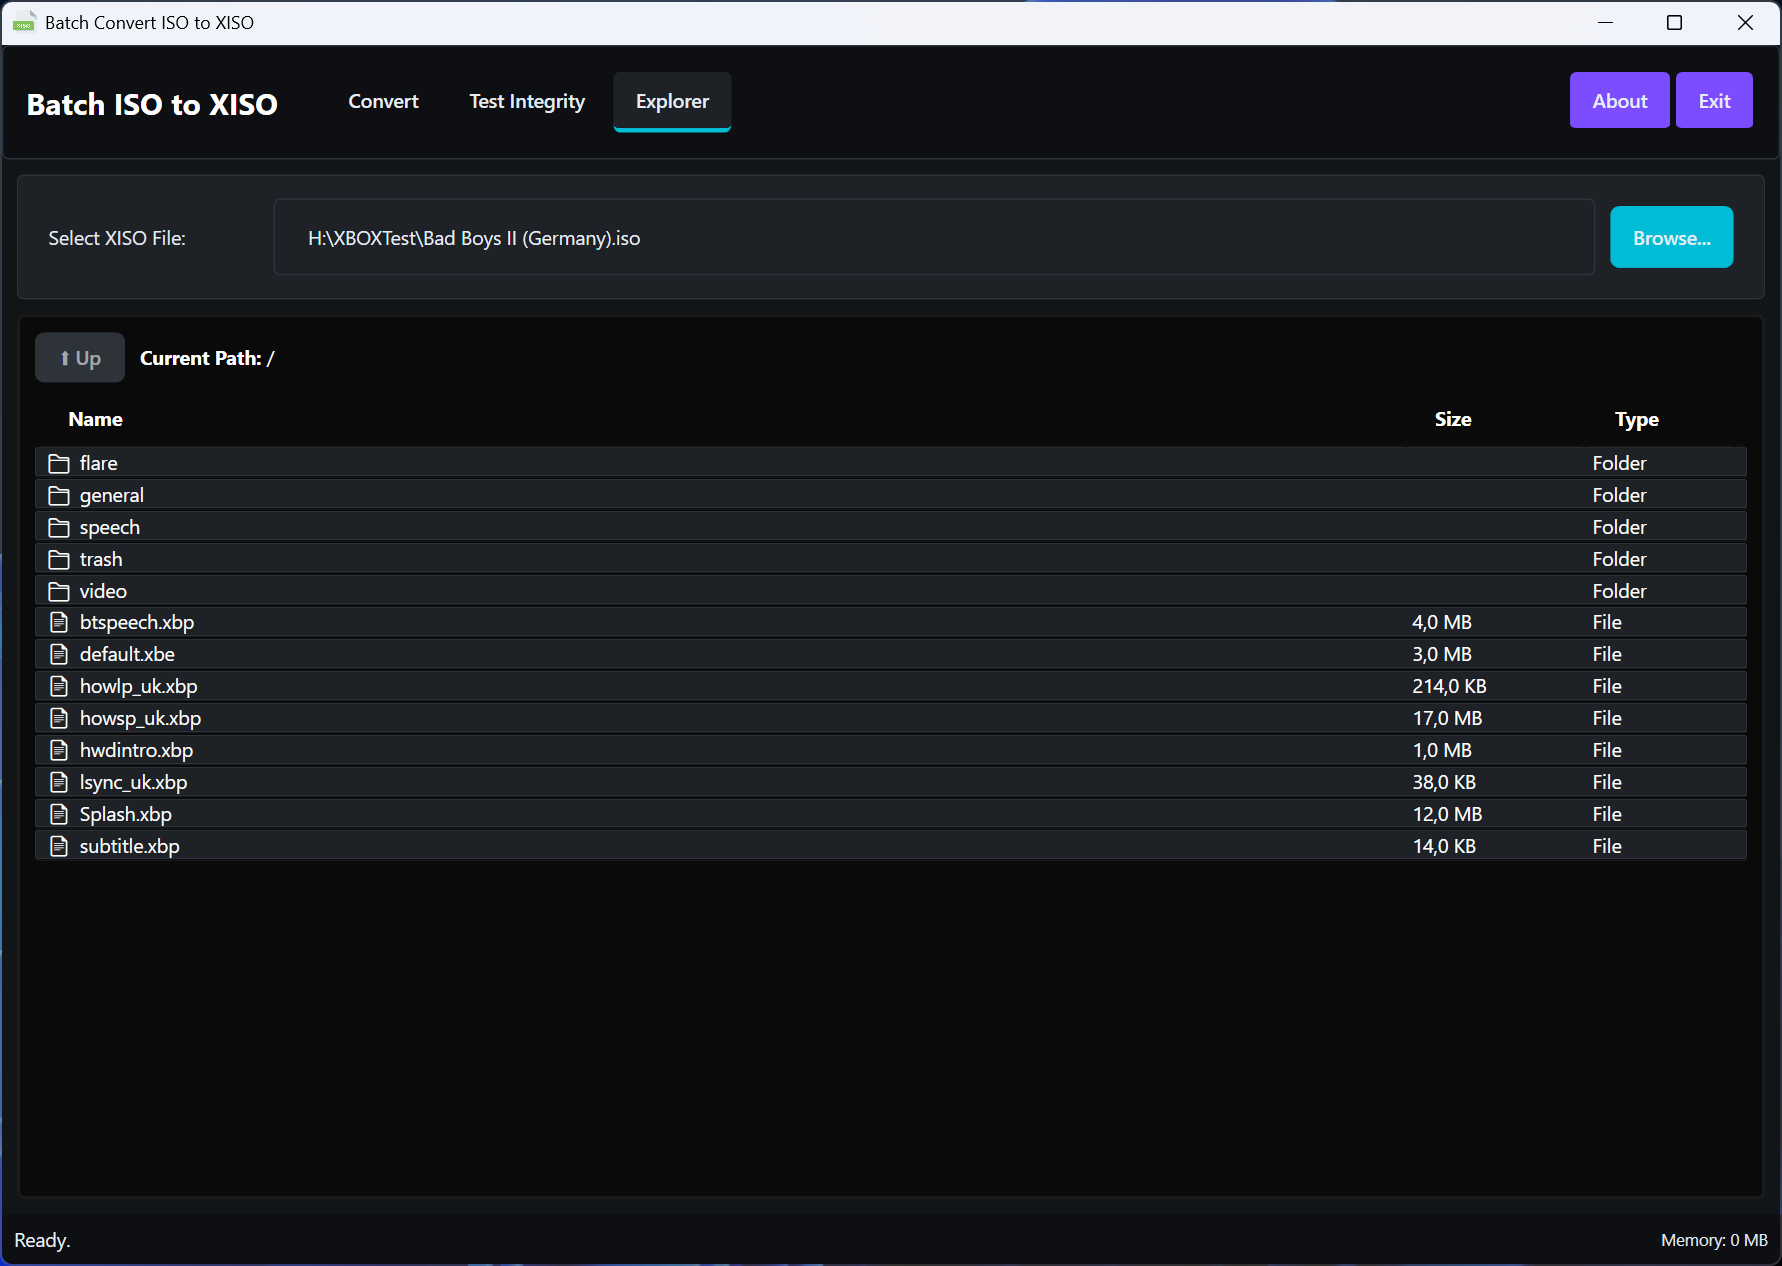
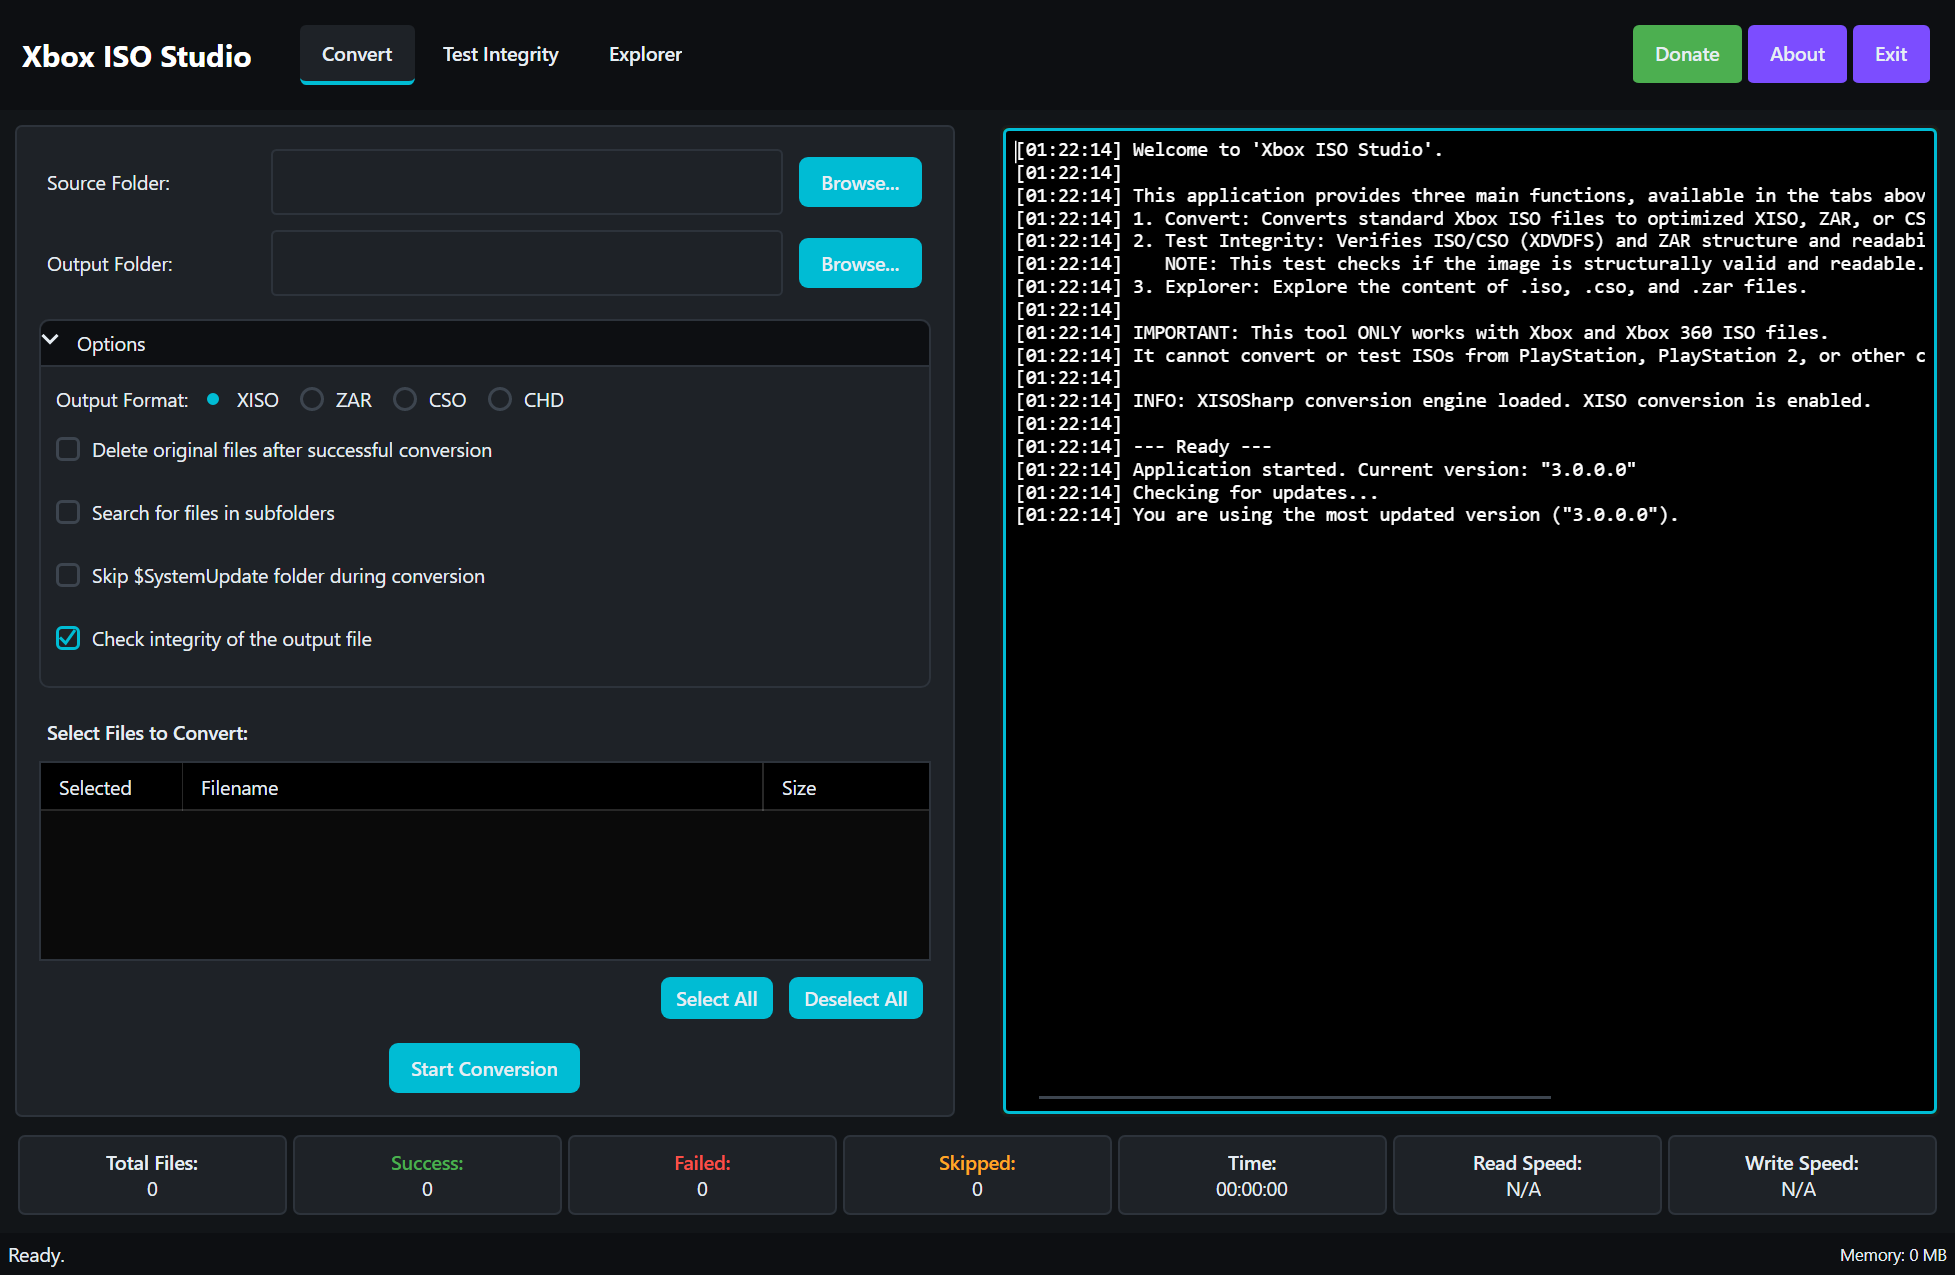
docs: mention CHD support in startup log and refresh screenshots
- startup instructions list CHD in Convert, Test Integrity, and Explorer
- engine status line reports XISOSharp and CHDSharp
- DisplayInstructions tests assert CHD/CHDSharp
- updated ReadMe screenshots

diff --git a/XboxIsoStudio/Services/DisplayInstructions.cs b/XboxIsoStudio/Services/DisplayInstructions.cs
@@ -20,19 +20,20 @@ public static class DisplayInstructions
             logger.Information("");
             logger.Information("This application provides three main functions, available in the tabs above:");
             logger.Information(
-                "1. Convert: Converts standard Xbox ISO files to optimized XISO, ZAR, or CSO format. Supports archives (.zip, .7z, .rar).");
+                "1. Convert: Converts standard Xbox ISO files to optimized XISO, ZAR, CSO, or CHD format. Supports archives (.zip, .7z, .rar).");
             logger.Information(
-                "2. Test Integrity: Verifies ISO/CSO (XDVDFS) and ZAR structure and readability.");
+                "2. Test Integrity: Verifies ISO/CSO (XDVDFS), ZAR, and Xbox CHD structure and readability.");
             logger.Information(
                 "   NOTE: This test checks if the image is structurally valid and readable. It does NOT perform data checksum (MD5/SHA) verification.");
-            logger.Information("3. Explorer: Explore the content of .iso, .cso, and .zar files.");
+            logger.Information("3. Explorer: Explore the content of .iso, .cso, .zar, and .chd files.");
             logger.Information("");
             logger.Information("IMPORTANT: This tool ONLY works with Xbox and Xbox 360 ISO files.");
             logger.Information("It cannot convert or test ISOs from PlayStation, PlayStation 2, or other consoles.");
             logger.Information("");
 
-            // XISO conversion is performed in-process by the XISOSharp library
-            logger.Information("INFO: XISOSharp conversion engine loaded. XISO conversion is enabled.");
+            // XISO/ZAR/CSO conversion is performed in-process by XISOSharp; CHD by CHDSharp
+            logger.Information(
+                "INFO: XISOSharp and CHDSharp conversion engines loaded. XISO/ZAR/CSO and CHD conversion are enabled.");
 
             logger.Information("");
 

diff --git a/XboxIsoStudio.Tests/Services/DisplayInstructionsTests.cs b/XboxIsoStudio.Tests/Services/DisplayInstructionsTests.cs
@@ -35,6 +35,7 @@ public class DisplayInstructionsTests
         Assert.True(logger.HasMessage("Convert"));
         Assert.True(logger.HasMessage("Test Integrity"));
         Assert.True(logger.HasMessage("Explorer"));
+        Assert.True(logger.HasMessage("CHD"));
     }
 
     [Fact]
@@ -60,7 +61,7 @@ public class DisplayInstructionsTests
     }
 
     [Fact]
-    public void DisplayInitialInstructionsLogsXisoSharpStatus()
+    public void DisplayInitialInstructionsLogsEngineStatus()
     {
         var logger = new TestLogger();
         DisplayInstructions.Initialize(logger.Logger);
@@ -68,5 +69,6 @@ public class DisplayInstructionsTests
         DisplayInstructions.DisplayInitialInstructions();
 
         Assert.True(logger.HasMessage("XISOSharp"));
+        Assert.True(logger.HasMessage("CHDSharp"));
     }
 }
